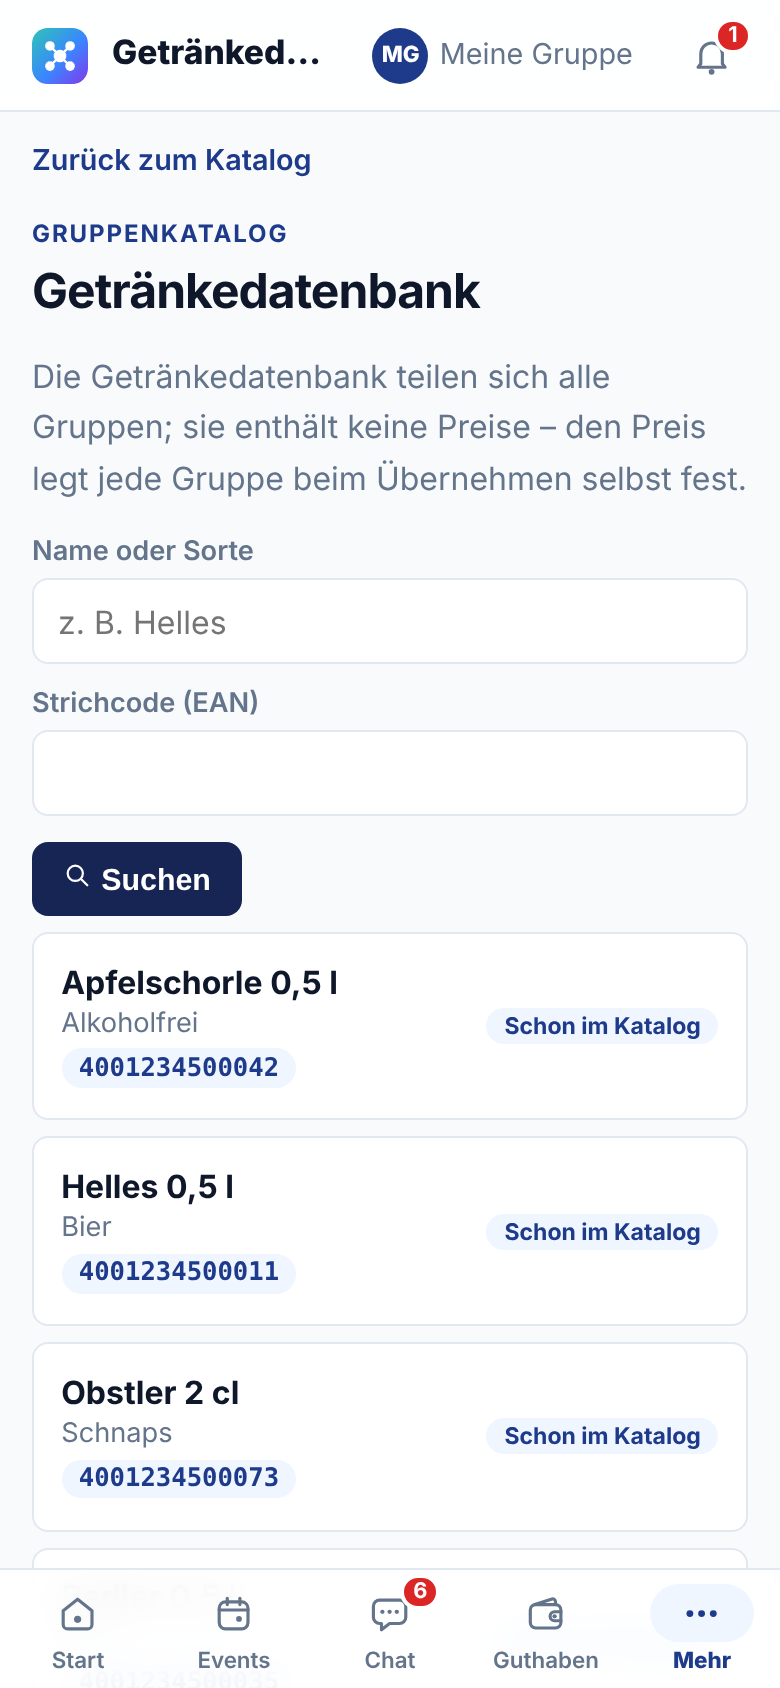
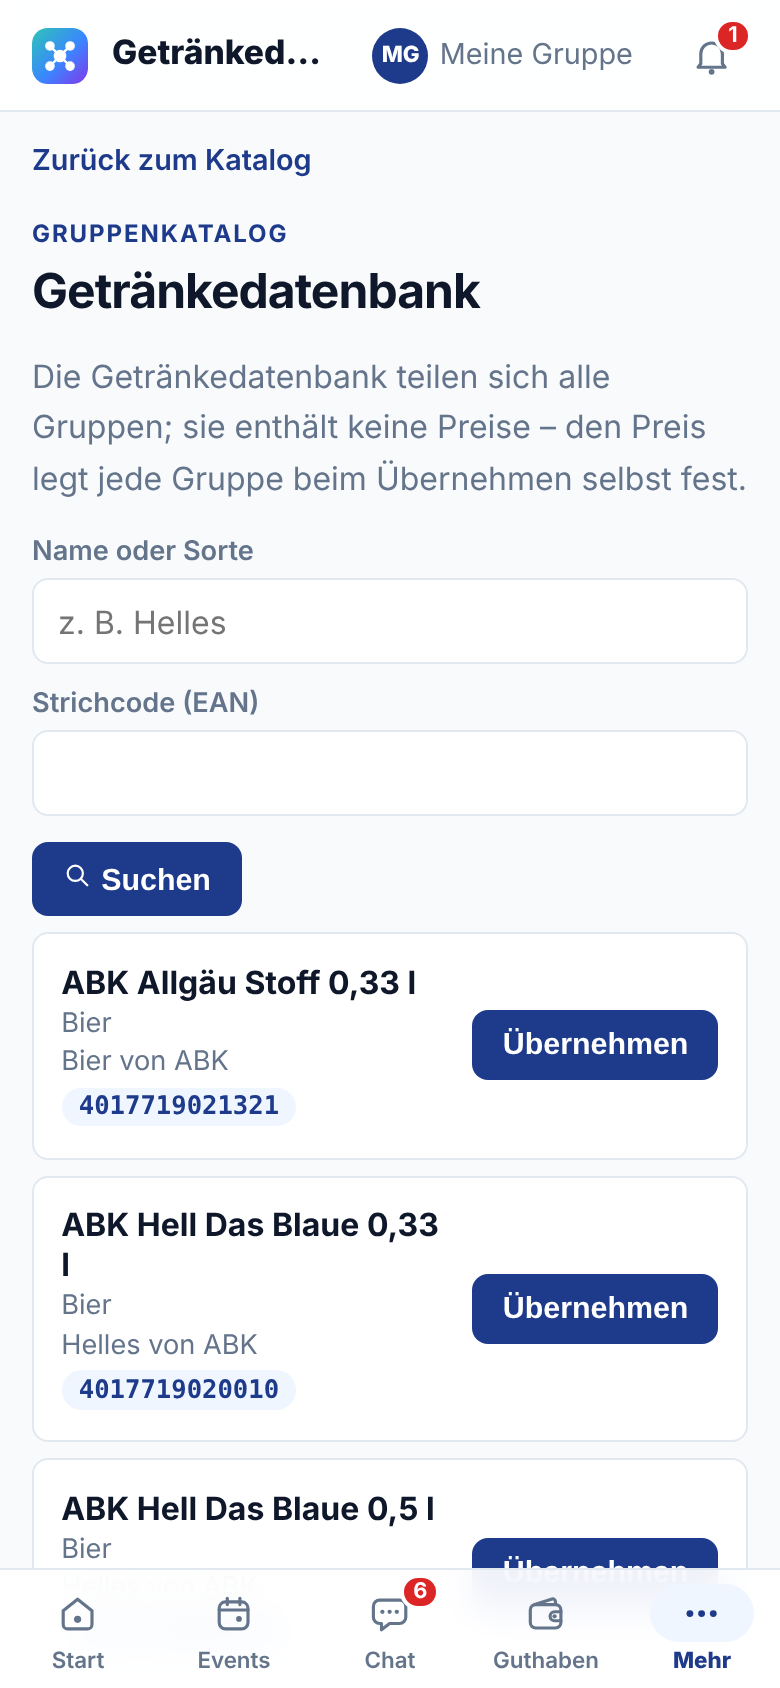
docs: Bild der Getränkedatenbank mit dem echten Bestand aus #35
Seed stellt keine Demo-Getränke mehr in die Getränkedatenbank, weil die
Migration aus #35 sie jetzt mit echten Einträgen füllt.

Claude-Session: https://claude.ai/code/session_011MKqwa3Zii4o6VgPLC8drZ

diff --git a/scripts/handbook/README.md b/scripts/handbook/README.md
@@ -3,7 +3,7 @@
 `capture.mjs` erzeugt alle Bilder in `docs/handbuch/bilder` neu. Es legt in einer
 frischen lokalen Umgebung Demo-Daten an (`seed.mjs`: Mitglieder, Getränke,
 Events mit Zusagen, Guthaben, Striche, Gruppen-, Event- und Direktchats, Moments,
-Rundbrief und Infotafel, eine Gasteinladung, Einträge in der Getränkedatenbank) und
+Rundbrief und Infotafel, eine Gasteinladung) und
 fotografiert jede Ansicht als die Person, die sie im Alltag nutzt: Handy
 (390 × 844), Thekentablet quer (1180 × 820) oder Rechner (1280 × 860).
 
